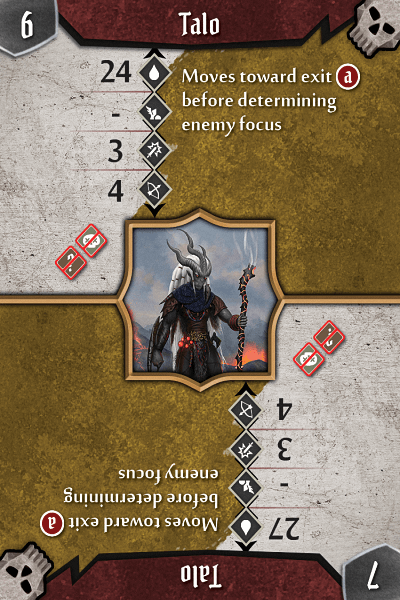
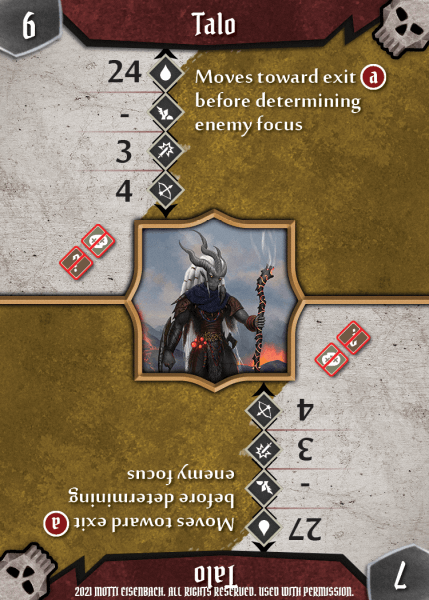
Implement New TOA MSC Assets with Copyright, Standardized Sizes & Asset Numbers

diff --git a/data/monster-stat-cards.js b/data/monster-stat-cards.js
@@ -2740,139 +2740,159 @@
     "points": 342,
     "expansion": "trail of ashes",
     "image": "monster-stat-cards/trail-of-ashes/toa-harrower-bugflute-0.png",
-    "xws": "harrowerbugflute"
+    "xws": "harrowerbugflute",
+    "assetno": "###"
   },
   {
     "name": "harrower bugflute",
     "points": 343,
     "expansion": "trail of ashes",
     "image": "monster-stat-cards/trail-of-ashes/toa-harrower-bugflute-2.png",
-    "xws": "harrowerbugflute"
+    "xws": "harrowerbugflute",
+    "assetno": "###"
   },
   {
     "name": "harrower bugflute",
     "points": 344,
     "expansion": "trail of ashes",
     "image": "monster-stat-cards/trail-of-ashes/toa-harrower-bugflute-4.png",
-    "xws": "harrowerbugflute"
+    "xws": "harrowerbugflute",
+    "assetno": "###"
   },
   {
     "name": "harrower bugflute",
     "points": 345,
     "expansion": "trail of ashes",
     "image": "monster-stat-cards/trail-of-ashes/toa-harrower-bugflute-6.png",
-    "xws": "harrowerbugflute"
+    "xws": "harrowerbugflute",
+    "assetno": "###"
   },
   {
     "name": "shardrender",
     "points": 346,
     "expansion": "trail of ashes",
     "image": "monster-stat-cards/trail-of-ashes/toa-shardrender-0.png",
-    "xws": "shardrender"
+    "xws": "shardrender",
+    "assetno": "###"
   },
   {
     "name": "shardrender",
     "points": 347,
     "expansion": "trail of ashes",
     "image": "monster-stat-cards/trail-of-ashes/toa-shardrender-2.png",
-    "xws": "shardrender"
+    "xws": "shardrender",
+    "assetno": "###"
   },
   {
     "name": "shardrender",
     "points": 348,
     "expansion": "trail of ashes",
     "image": "monster-stat-cards/trail-of-ashes/toa-shardrender-4.png",
-    "xws": "shardrender"
+    "xws": "shardrender",
+    "assetno": "###"
   },
   {
     "name": "shardrender",
     "points": 349,
     "expansion": "trail of ashes",
     "image": "monster-stat-cards/trail-of-ashes/toa-shardrender-6.png",
-    "xws": "shardrender"
+    "xws": "shardrender",
+    "assetno": "###"
   },
   {
     "name": "smoke spirit",
     "points": 350,
     "expansion": "trail of ashes",
     "image": "monster-stat-cards/trail-of-ashes/toa-smoke-spirit-0.png",
-    "xws": "smokespirit"
+    "xws": "smokespirit",
+    "assetno": "###"
   },
   {
     "name": "smoke spirit",
     "points": 351,
     "expansion": "trail of ashes",
     "image": "monster-stat-cards/trail-of-ashes/toa-smoke-spirit-2.png",
-    "xws": "smokespirit"
+    "xws": "smokespirit",
+    "assetno": "###"
   },
   {
     "name": "smoke spirit",
     "points": 352,
     "expansion": "trail of ashes",
     "image": "monster-stat-cards/trail-of-ashes/toa-smoke-spirit-4.png",
-    "xws": "smokespirit"
+    "xws": "smokespirit",
+    "assetno": "###"
   },
   {
     "name": "smoke spirit",
     "points": 353,
     "expansion": "trail of ashes",
     "image": "monster-stat-cards/trail-of-ashes/toa-smoke-spirit-6.png",
-    "xws": "smokespirit"
+    "xws": "smokespirit",
+    "assetno": "###"
   },
   {
     "name": "talo",
     "points": 354,
     "expansion": "trail of ashes",
     "image": "monster-stat-cards/trail-of-ashes/toa-talo-0.png",
-    "xws": "talo"
+    "xws": "talo",
+    "assetno": "###"
   },
   {
     "name": "talo",
     "points": 355,
     "expansion": "trail of ashes",
     "image": "monster-stat-cards/trail-of-ashes/toa-talo-2.png",
-    "xws": "talo"
+    "xws": "talo",
+    "assetno": "###"
   },
   {
     "name": "talo",
     "points": 356,
     "expansion": "trail of ashes",
     "image": "monster-stat-cards/trail-of-ashes/toa-talo-4.png",
-    "xws": "talo"
+    "xws": "talo",
+    "assetno": "###"
   },
   {
     "name": "talo",
     "points": 357,
     "expansion": "trail of ashes",
     "image": "monster-stat-cards/trail-of-ashes/toa-talo-6.png",
-    "xws": "talo"
+    "xws": "talo",
+    "assetno": "###"
   },
   {
     "name": "valrath vanquisher",
     "points": 358,
     "expansion": "trail of ashes",
     "image": "monster-stat-cards/trail-of-ashes/toa-valrath-vanquisher-0.png",
-    "xws": "valrathvanquisher"
+    "xws": "valrathvanquisher",
+    "assetno": "###"
   },
   {
     "name": "valrath vanquisher",
     "points": 359,
     "expansion": "trail of ashes",
     "image": "monster-stat-cards/trail-of-ashes/toa-valrath-vanquisher-2.png",
-    "xws": "valrathvanquisher"
+    "xws": "valrathvanquisher",
+    "assetno": "###"
   },
   {
     "name": "valrath vanquisher",
     "points": 360,
     "expansion": "trail of ashes",
     "image": "monster-stat-cards/trail-of-ashes/toa-valrath-vanquisher-4.png",
-    "xws": "valrathvanquisher"
+    "xws": "valrathvanquisher",
+    "assetno": "###"
   },
   {
     "name": "valrath vanquisher",
     "points": 361,
     "expansion": "trail of ashes",
     "image": "monster-stat-cards/trail-of-ashes/toa-valrath-vanquisher-6.png",
-    "xws": "valrathvanquisher"
+    "xws": "valrathvanquisher",
+    "assetno": "###"
   }
 ]

diff --git a/index.html b/index.html
@@ -19387,10 +19387,7 @@
 					<h1><i class="fa fa-plus"></i> Monster Stat Cards </h1>
 					<div class="textzone">
 						<table class="table-padded">
-							<tr><td>Monster Stat Card Envelope 6</td><td>Monster Stat Card Envelope 10</td></tr>
-						</table>
-						<table class="table-padded">
-							<tr><td>&nbsp</td></tr>
+							<tr><td class="td-bu">Asset Name</td><td class="td-bu">Asset Name</td><td class="td-bu">Asset Name</td></tr>
 							<tr><td>Harrower Bugflute</td><td>Smoke Spirit</td><td>Valrath Vanquisher</td></tr>
 							<tr><td>Shardrender      </td><td>Talo        </td></tr>
 						</table>
@@ -20101,10 +20098,7 @@
 					<h1><i class="fa fa-plus"></i> Monster Stat Cards </h1>
 					<div class="textzone">
 						<table class="table-padded">
-							<tr><td>Monster Stat Card Envelope 6</td><td>Monster Stat Card Envelope 10</td></tr>
-						</table>
-						<table class="table-padded">
-							<tr><td>&nbsp</td></tr>
+							<tr><td class="td-bu">Asset Name</td><td class="td-bu">Asset Name</td><td class="td-bu">Asset Name</td></tr>
 							<tr><td>Harrower Bugflute</td><td>Smoke Spirit</td><td>Valrath Vanquisher</td></tr>
 							<tr><td>Shardrender      </td><td>Talo        </td></tr>
 						</table>
